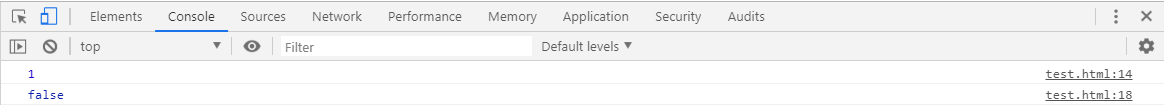
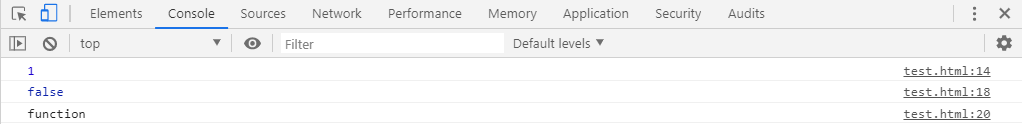
20191030

diff --git a/test.html b/test.html
@@ -9,12 +9,23 @@
 <body>
 </body>
 <script>
-class Test {
-    [Symbol.hasInstance](param){
-        console.log(1);
-        return false;
-    }
-};
-console.log('abc' instanceof new Test());
+// 数组进行concat合并时的默认行为是展开的，它的isConcatSpreadable默认为undefined。
+let arr = [1, 2, 3];
+console.log(arr[Symbol.isConcatSpreadable]);
+console.log([4, 5].concat(arr));
+console.log('------------------------------------');
+// 当数组的Symbol.isConcatSpreadable属性被设置为false时，数组在进行concat合并时，则不展开。
+arr[Symbol.isConcatSpreadable] = false;
+console.log([4, 5].concat(arr));
+console.log('------------------------------------');
+
+// 而类似数组的对象则相反，默认不展开。
+let obj = {length : 3, 0 : 'a', 1 : 'b', 2 : 'c'};
+console.log(obj[Symbol.isConcatSpreadable]);
+console.log([0, 1].concat(obj));
+console.log('------------------------------------');
+// 当对象的Symbol.isConcatSpreadable属性设置为true时，它在进行concat合并时，是可以展开的。
+obj[Symbol.isConcatSpreadable] = true;
+console.log([0, 1].concat(obj));
 </script>
 </html>

diff --git a/test.js b/test.js
@@ -1,3 +1,5 @@
-let zero = 0;
-export default zero;
-console.log('I am test.js');
+let arr = [1, 2, 3];
+console.log(arr[Symbol.isConcatSpreadable]);
+console.log([4, 5].concat(arr));
+arr[Symbol.isConcatSpreadable] = false;
+console.log([4, 5].concat(arr));

diff --git a/10.Symbol类型.md b/10.Symbol类型.md
@@ -33,7 +33,7 @@ console.log(Symbol({}));
 console.log(Symbol('123') === Symbol('123'));
 console.log(Symbol(123) === Symbol(123));
 console.log(Symbol(true) === Symbol(true));
-console.log(Symbol(undefined) === **Symbol**(undefined));
+console.log(Symbol(undefined) === Symbol(undefined));
 console.log(Symbol(null) === Symbol(null));
 console.log(Symbol({}) === Symbol({}));
 ```
@@ -135,13 +135,13 @@ console.log(obj2);
 ![avatar](images/Symbol/9.png)
 ## Symbol属性
 ### * Symbol.prototype.description
-> 放回symbol数据的描述符
+> 返回symbol数据的描述符
 ```js
 let sym = Symbol('abc');
 console.log(sym.description);           // abc
 ```
 ### * Symbol.hasInstance
-> 对象的Symbol.hasInstance属性，指向一个内部方法。当其他对象使用instanceof运算符2时，会调用这个方法。如下：
+> 对象的Symbol.hasInstance属性，指向对象的一个内部方法。当其他对象使用instanceof运算符2时，会调用这个方法。如下：
 ```js
 class Test {
     [Symbol.hasInstance](param){
@@ -150,9 +150,33 @@ class Test {
     }
 };
 console.log('abc' instanceof new Test());
+var test = new Test();
+console.log(typeof test[Symbol.hasInstance]);
 ```
 ![avatar](images/Symbol/10.png)
-### *
+### * Symbol.isConcatSpreadable
+> 对象的Symbol.isConcatSpreadable属性等于一个布尔值，表示该对象用于`Array.prototype.concat()`时，是否可以展开。
+```js
+// 数组进行concat合并时的默认行为是展开的，它的isConcatSpreadable默认为undefined。
+let arr = [1, 2, 3];
+console.log(arr[Symbol.isConcatSpreadable]);
+console.log([4, 5].concat(arr));
+console.log('------------------------------------');
+// 当数组的Symbol.isConcatSpreadable属性被设置为false时，数组在进行concat合并时，则不展开。
+arr[Symbol.isConcatSpreadable] = false;
+console.log([4, 5].concat(arr));
+console.log('------------------------------------');
+
+// 而类似数组的对象则相反，默认不展开。
+let obj = {length : 3, 0 : 'a', 1 : 'b', 2 : 'c'};
+console.log(obj[Symbol.isConcatSpreadable]);
+console.log([0, 1].concat(obj));
+console.log('------------------------------------');
+// 当对象的Symbol.isConcatSpreadable属性设置为true时，它在进行concat合并时，是可以展开的。
+obj[Symbol.isConcatSpreadable] = true;
+console.log([0, 1].concat(obj));
+```
+![avatar](images/Symbol/11.png)
 ### *
 ### *
 ### *
